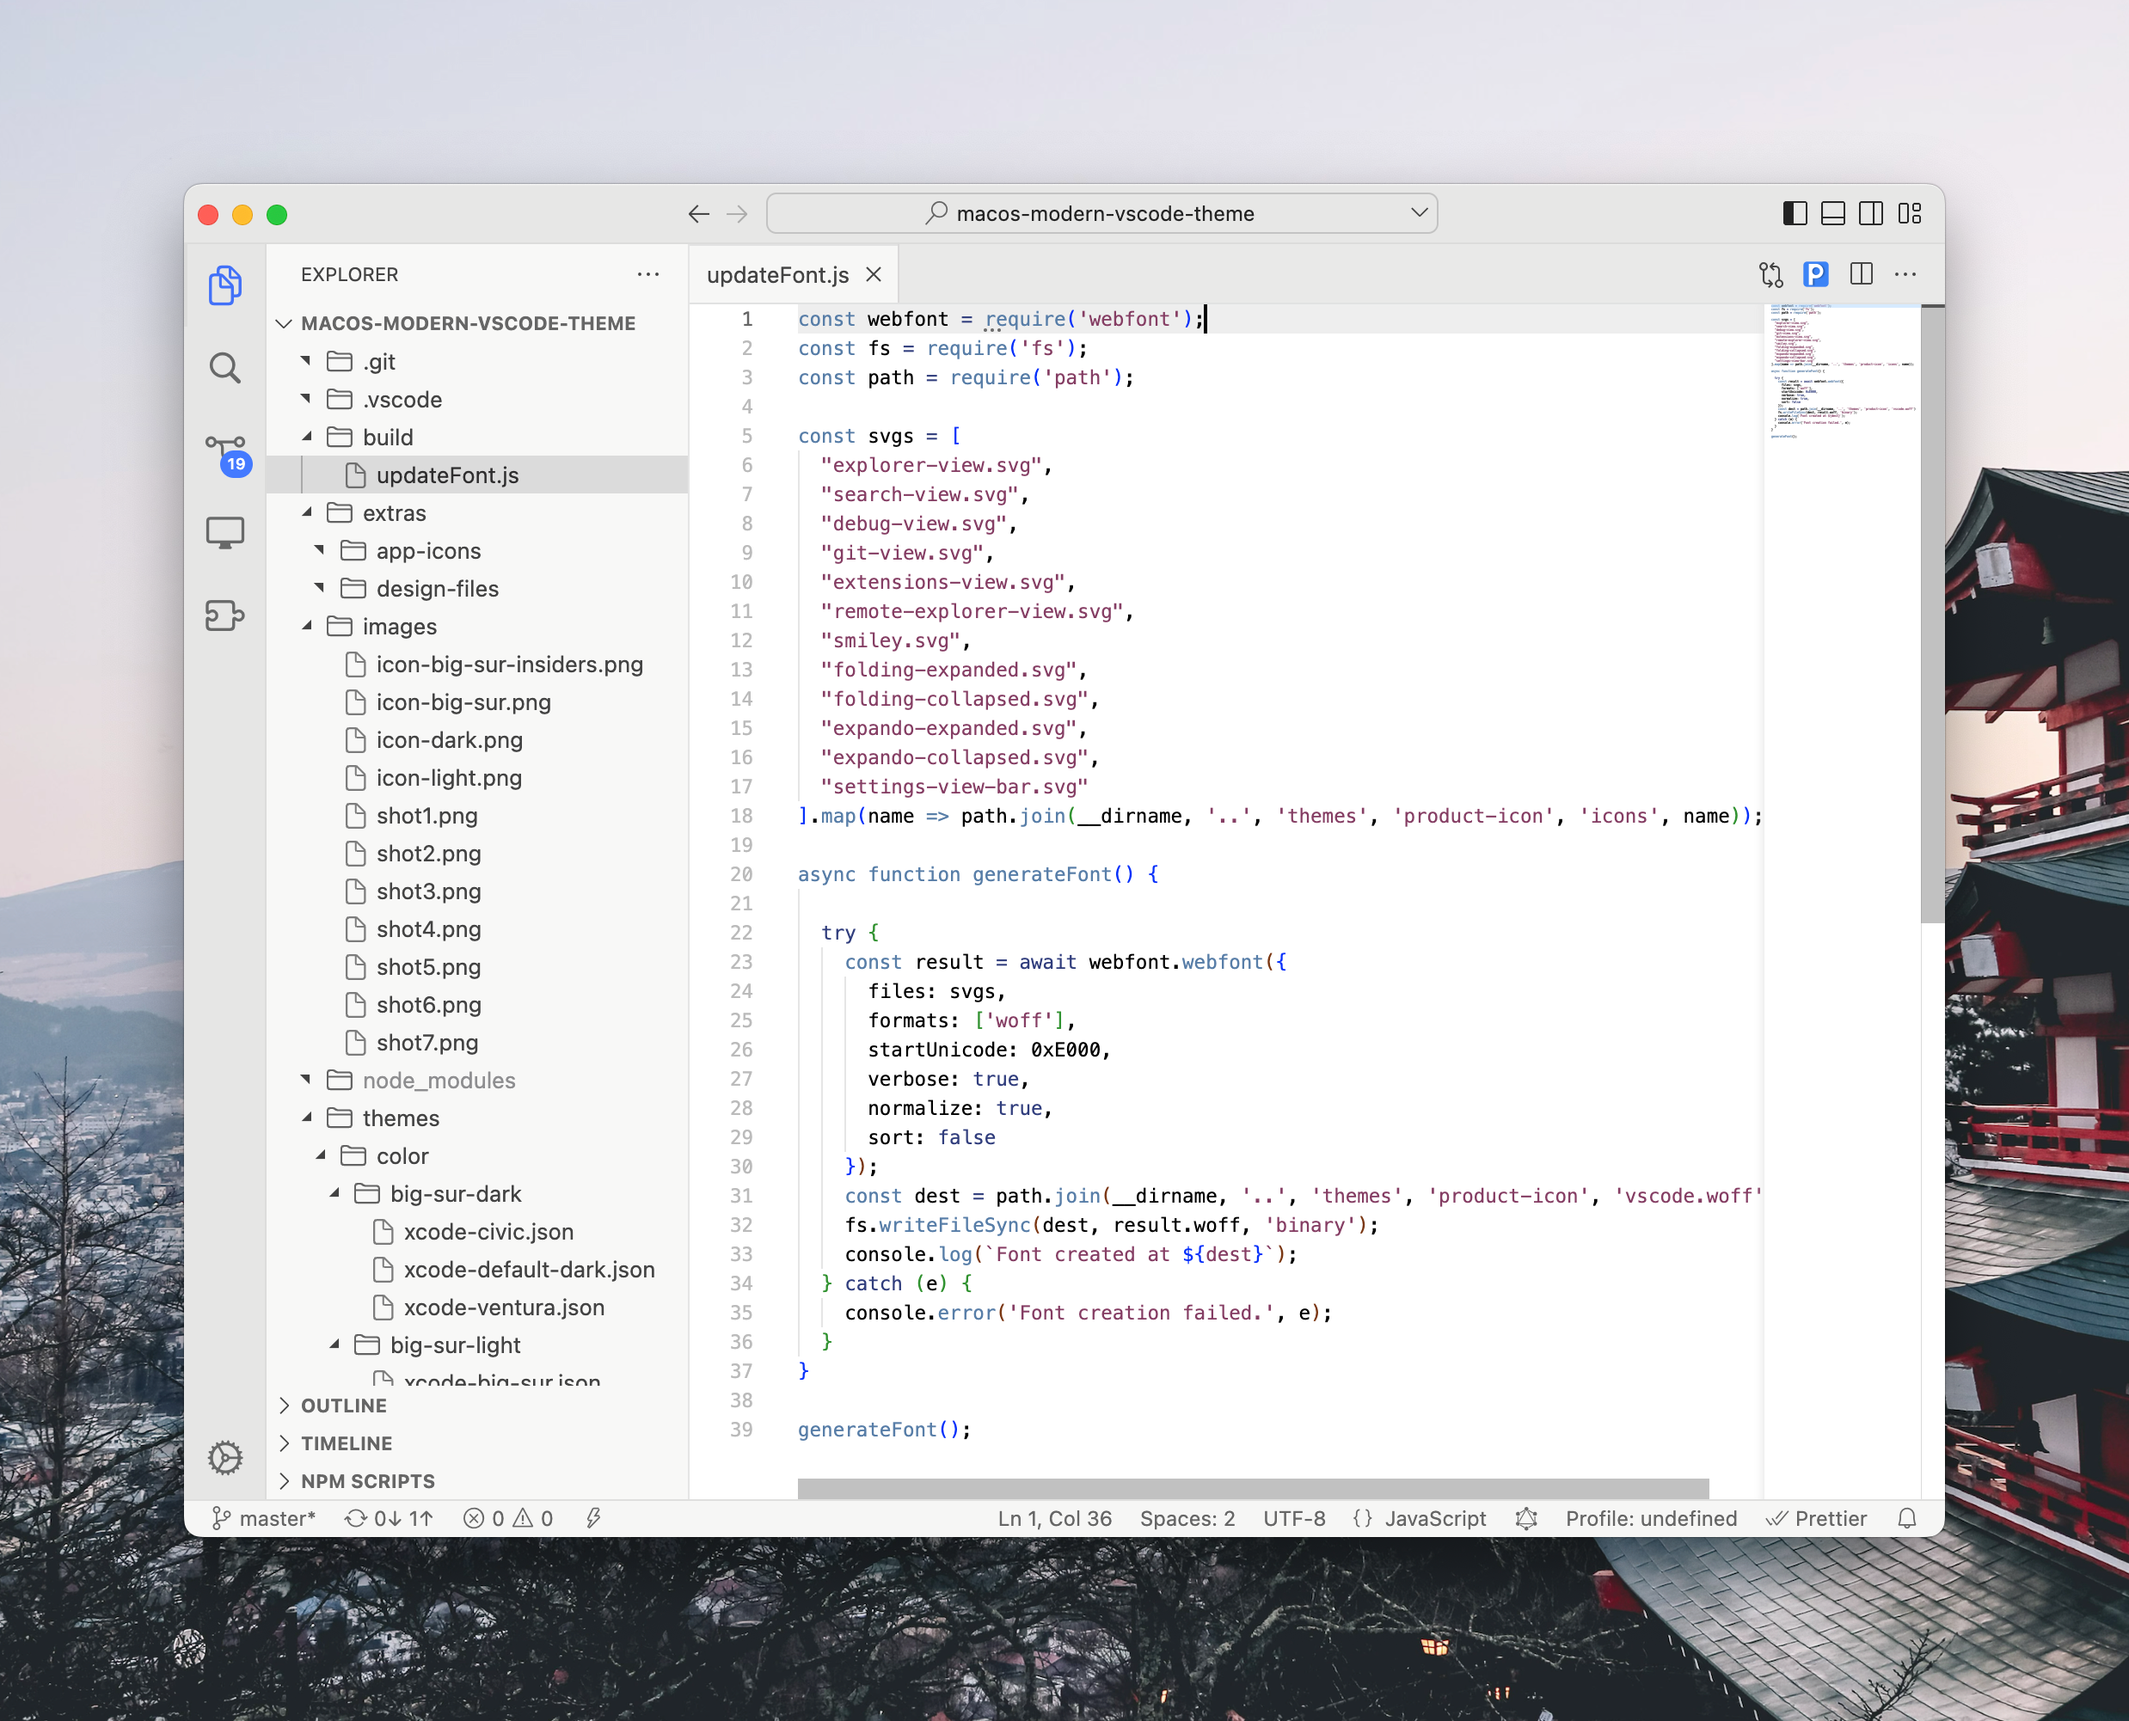
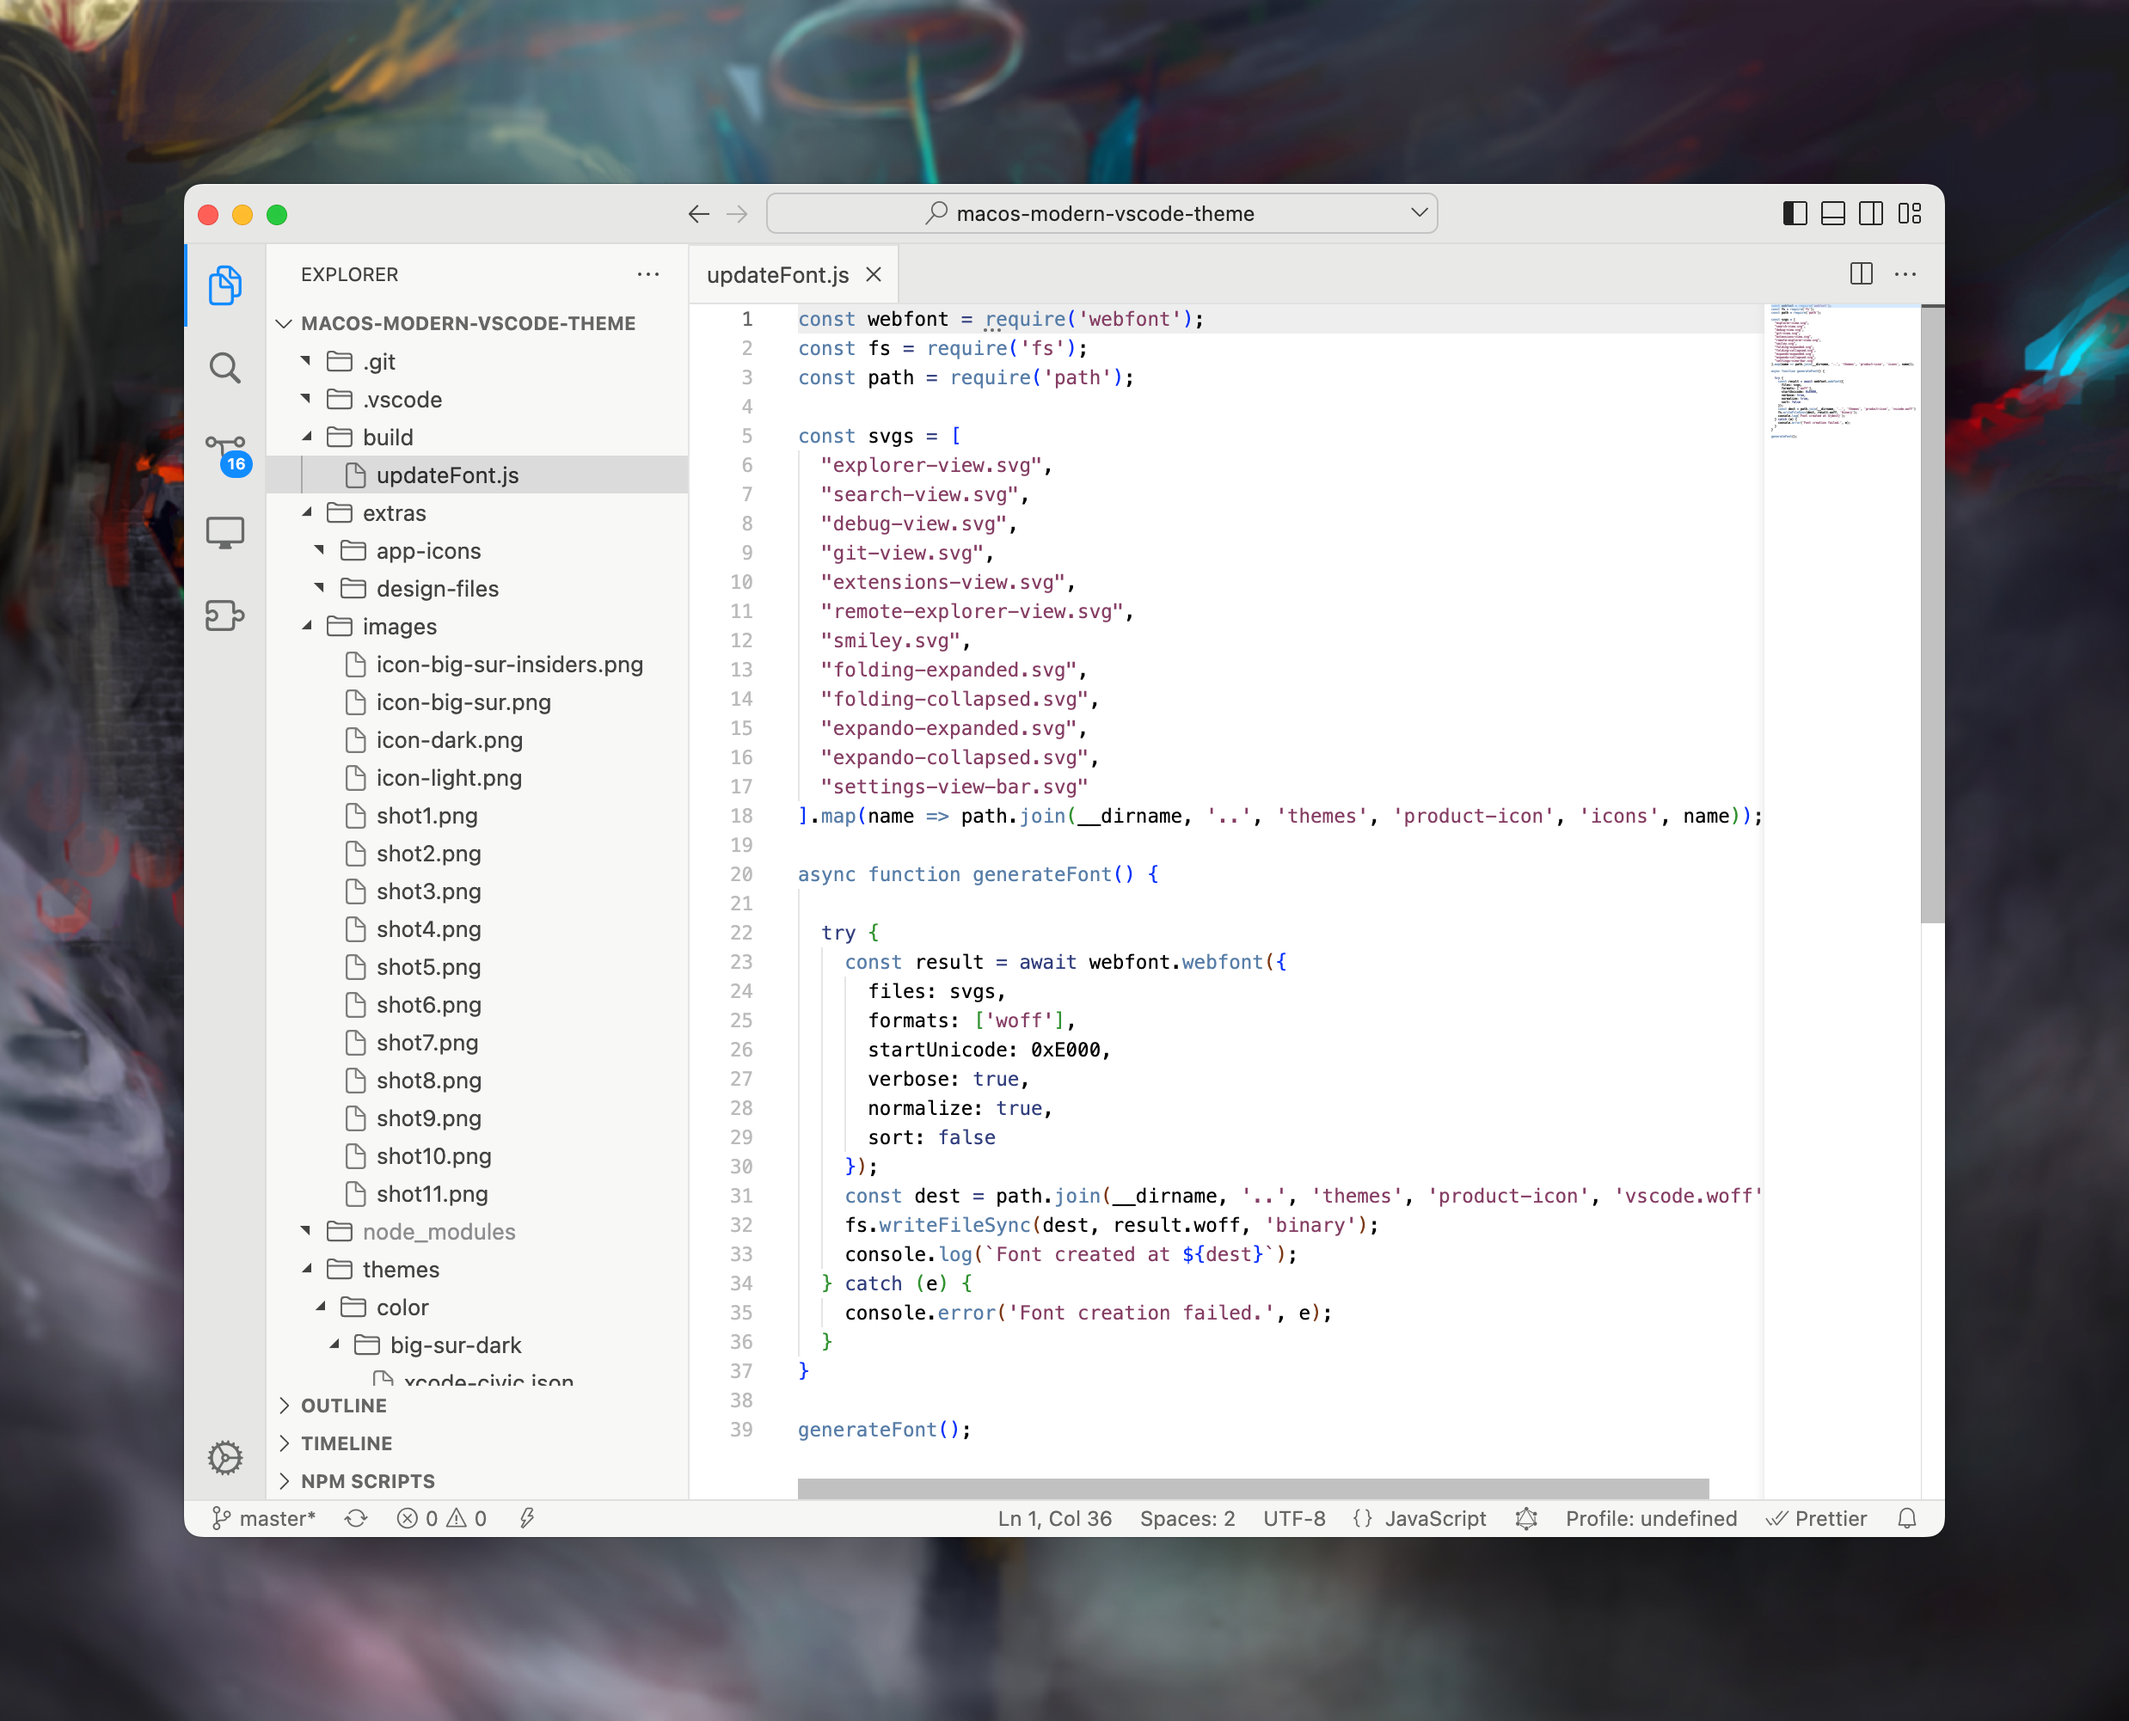
.

Changed region(s): [[0.0, 0.0, 1.0, 1.0], [0.1555, 0.6194, 0.311, 0.8052], [0.8397, 0.1548, 0.8708, 0.1858]]

diff --git a/README.md b/README.md
@@ -1,9 +1,9 @@
 
 # macOS Modern Theme
 
-## Big Sur / Monterey
+## Ventura
 
-Added Big Sur / Monterey Versions + Icons!
+Added Ventura Versions + Icons!
 
 ---
 
